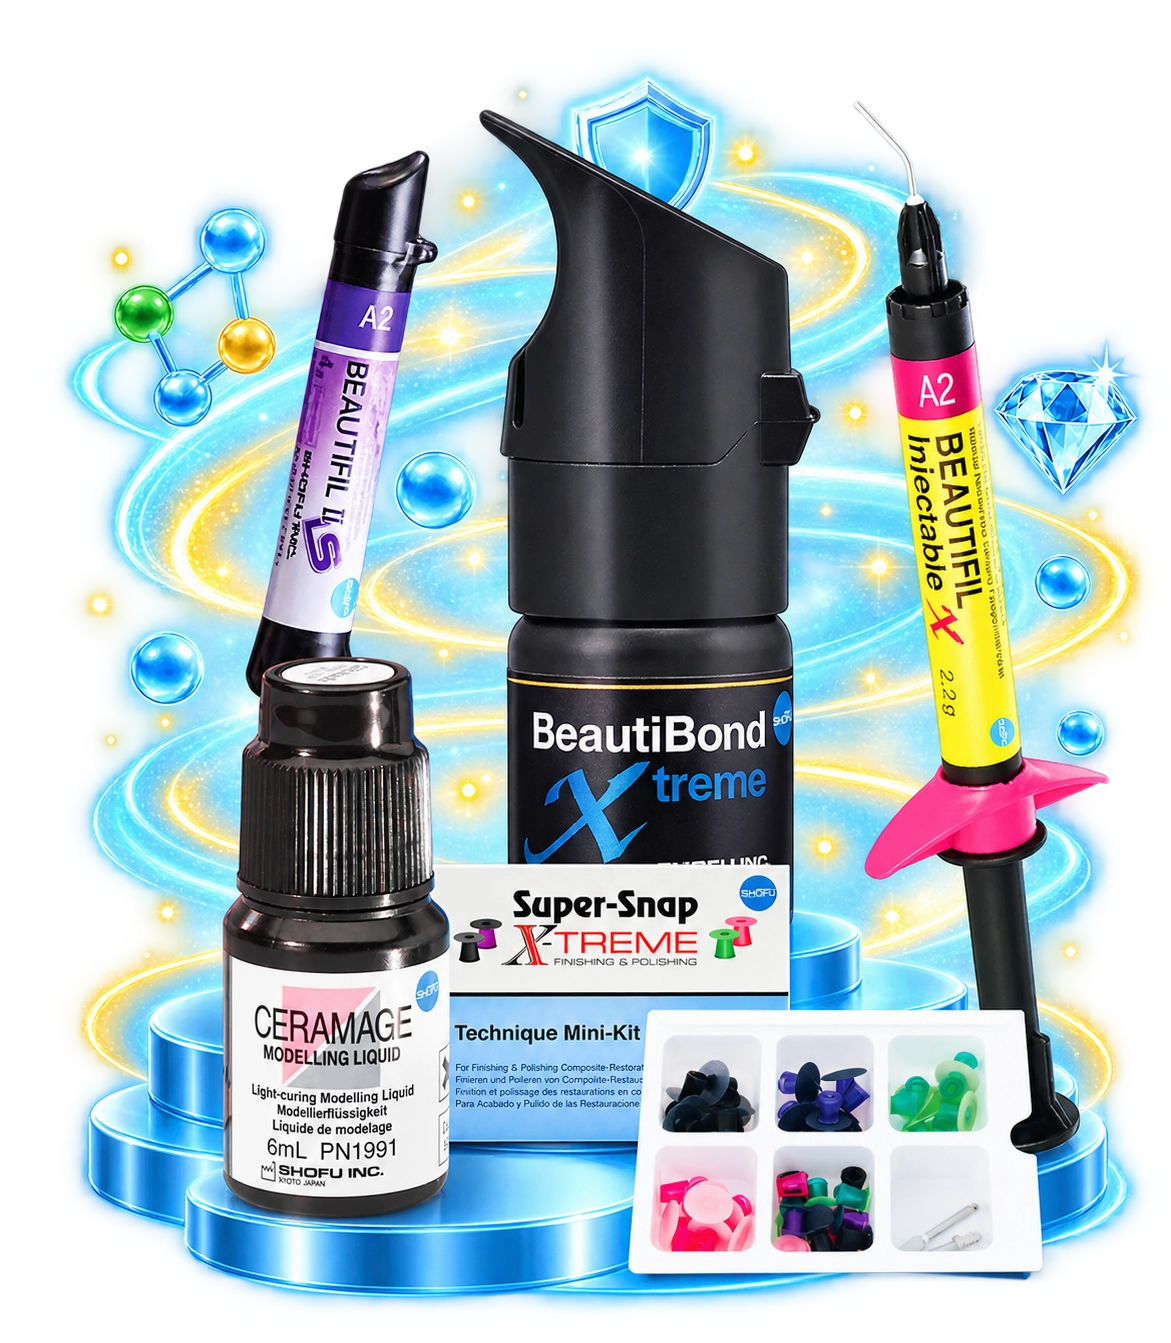
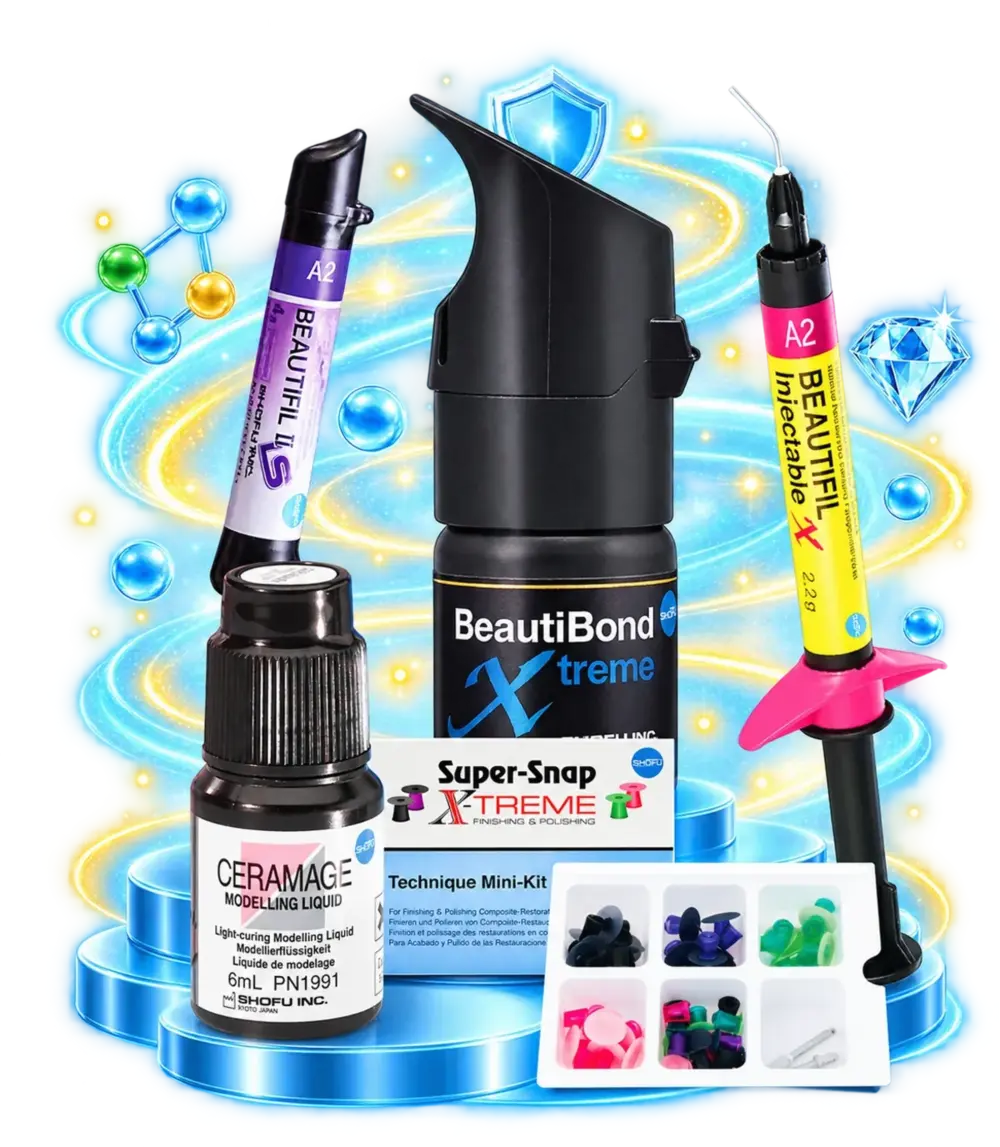
Update and compress Hero image in DirectRestoration solution

diff --git a/src/components/shofu/solutions/DirectRestoration.tsx b/src/components/shofu/solutions/DirectRestoration.tsx
@@ -147,7 +147,7 @@ const faqs = [
             <div className="lg:hidden my-6 sm:my-8 flex justify-start">
               <img 
                 referrerPolicy="no-referrer"
-                src="/images/giai-phap-phuc-hoi-truc-tiep-shofu.webp"
+                src="/image/phuc-hoi-truc-tiep.webp"
                 alt="Giải pháp phục hồi trực tiếp Shofu"
                 className="w-full max-w-[340px] sm:max-w-[420px] h-auto object-contain block drop-shadow-md"
                 loading="eager"
@@ -200,7 +200,7 @@ const faqs = [
           <div className="hidden lg:flex w-full lg:w-[35%] xl:w-[40%] relative justify-center items-start lg:pt-[54px]">
             <img 
               referrerPolicy="no-referrer"
-              src="/images/giai-phap-phuc-hoi-truc-tiep-shofu.webp"
+              src="/image/phuc-hoi-truc-tiep.webp"
               alt="Giải pháp phục hồi trực tiếp Shofu"
               className="w-full max-w-[440px] h-auto object-contain block relative z-10 hover:scale-[1.02] transition-transform duration-500 drop-shadow-lg"
               loading="eager"
